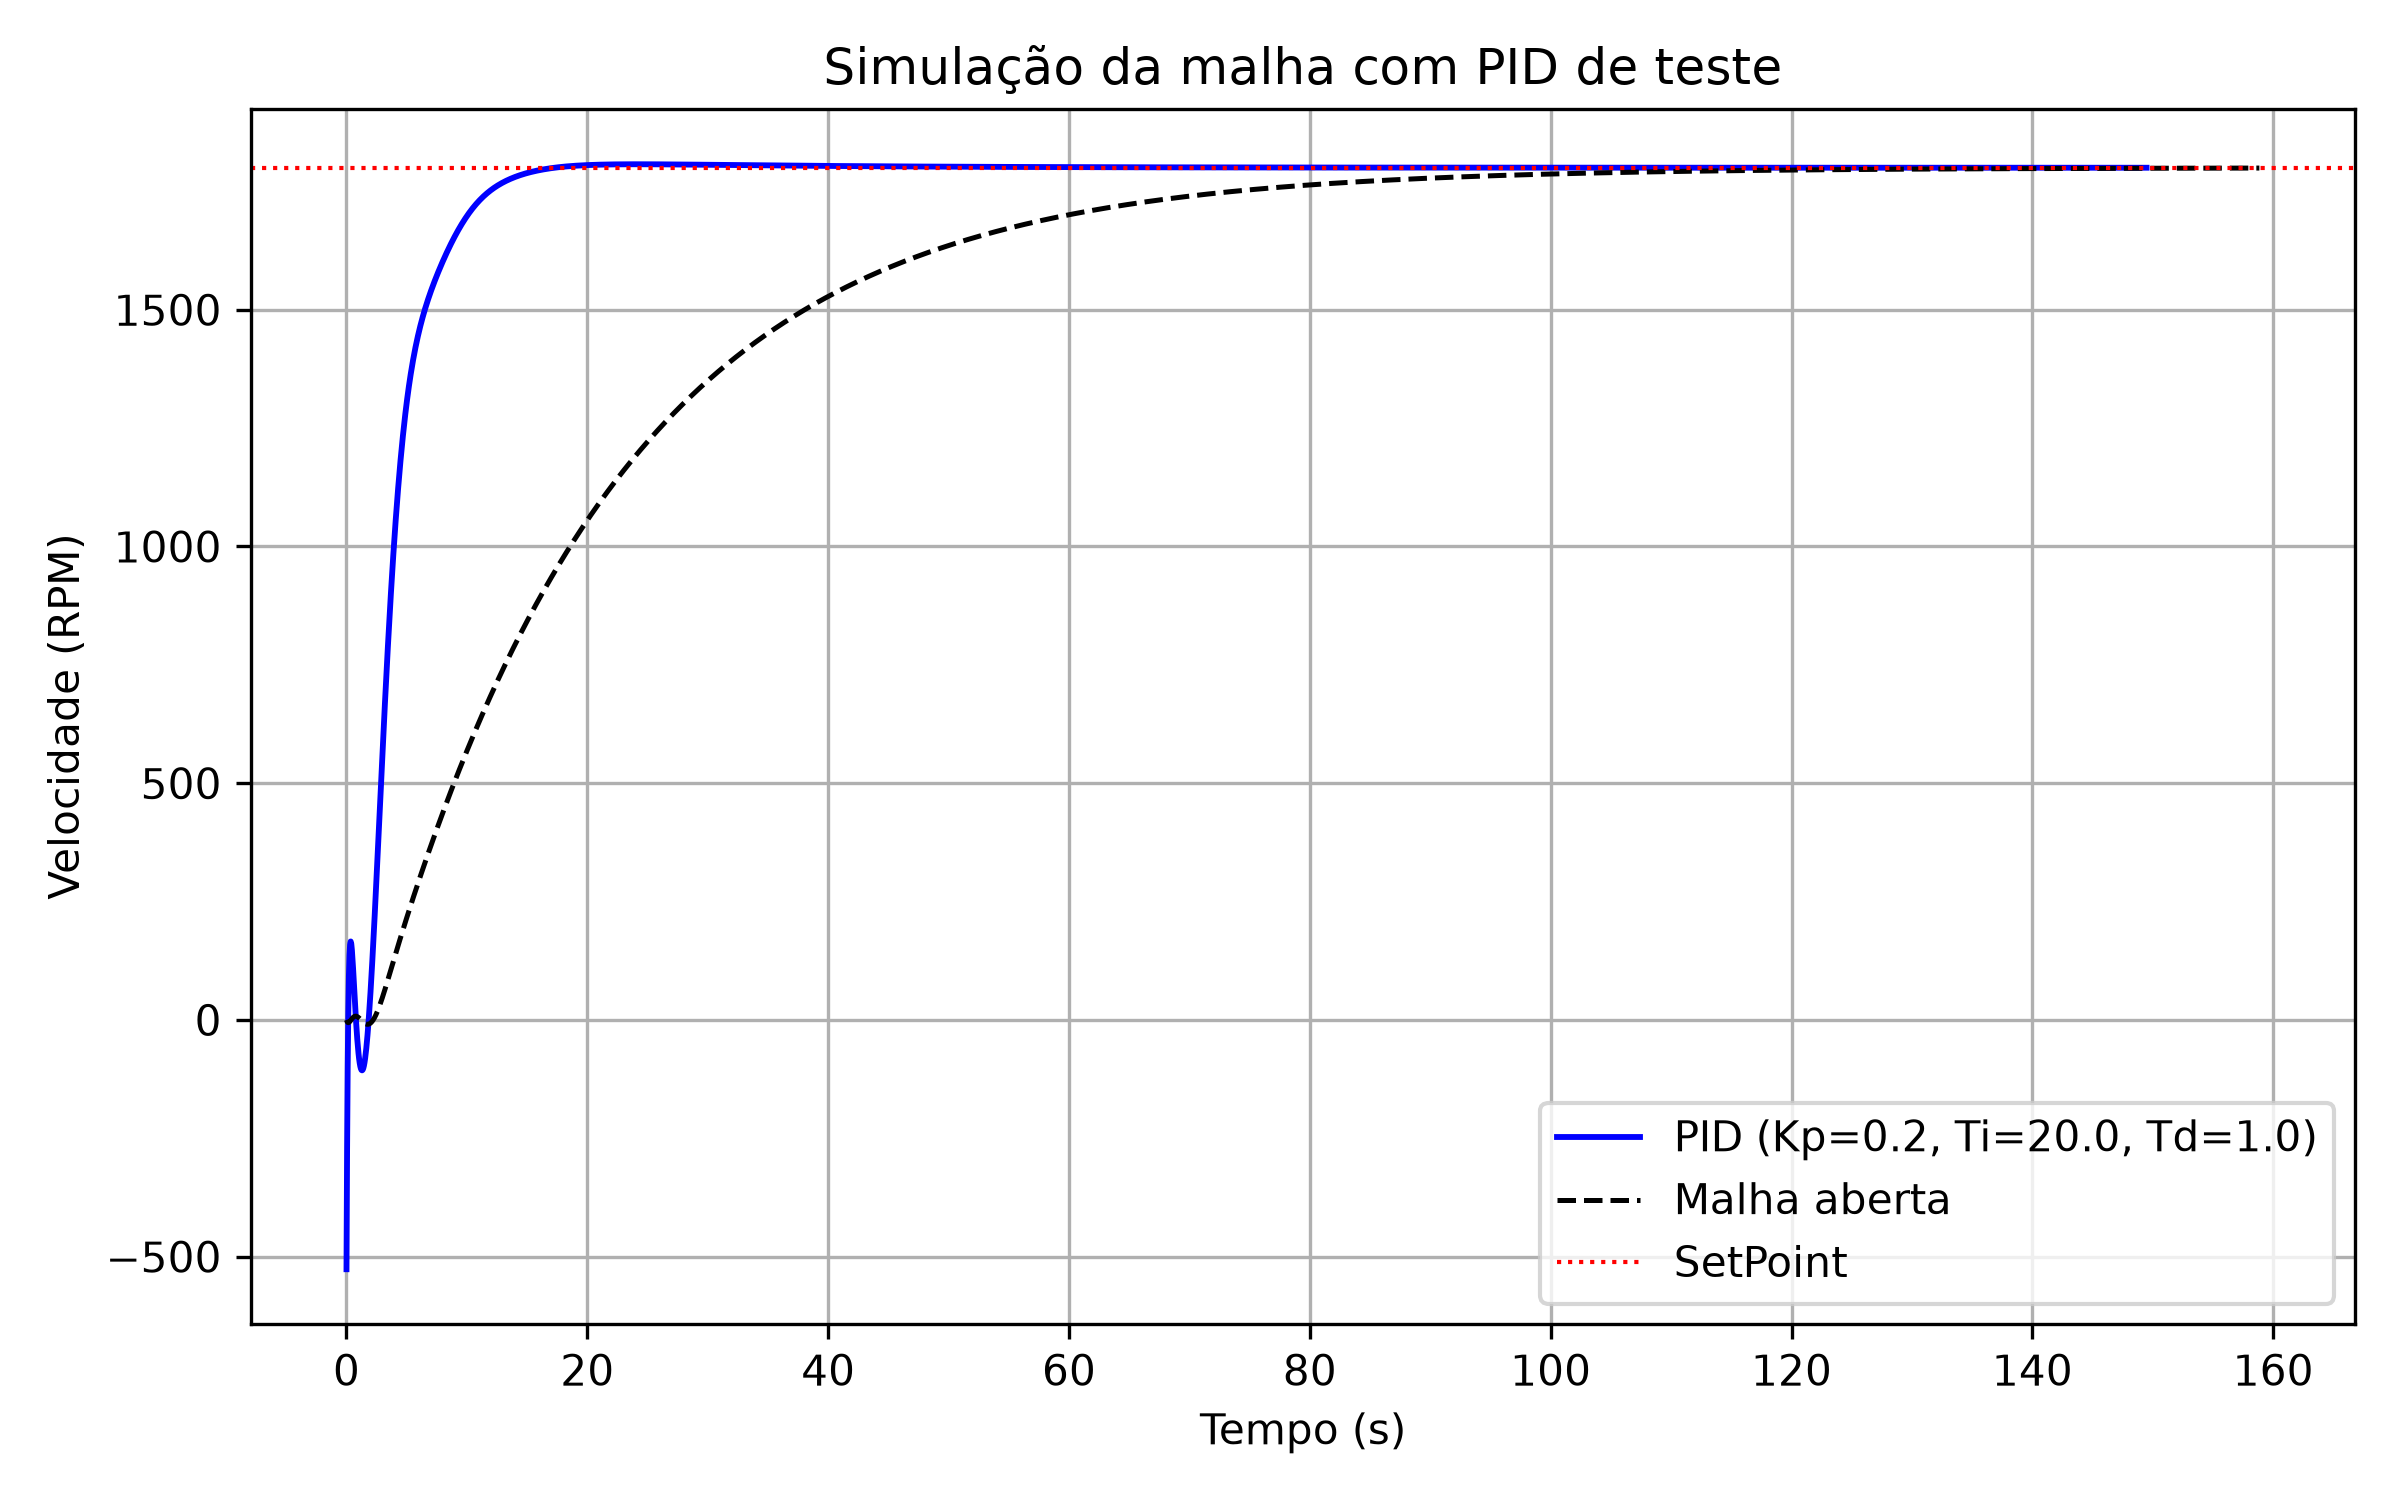
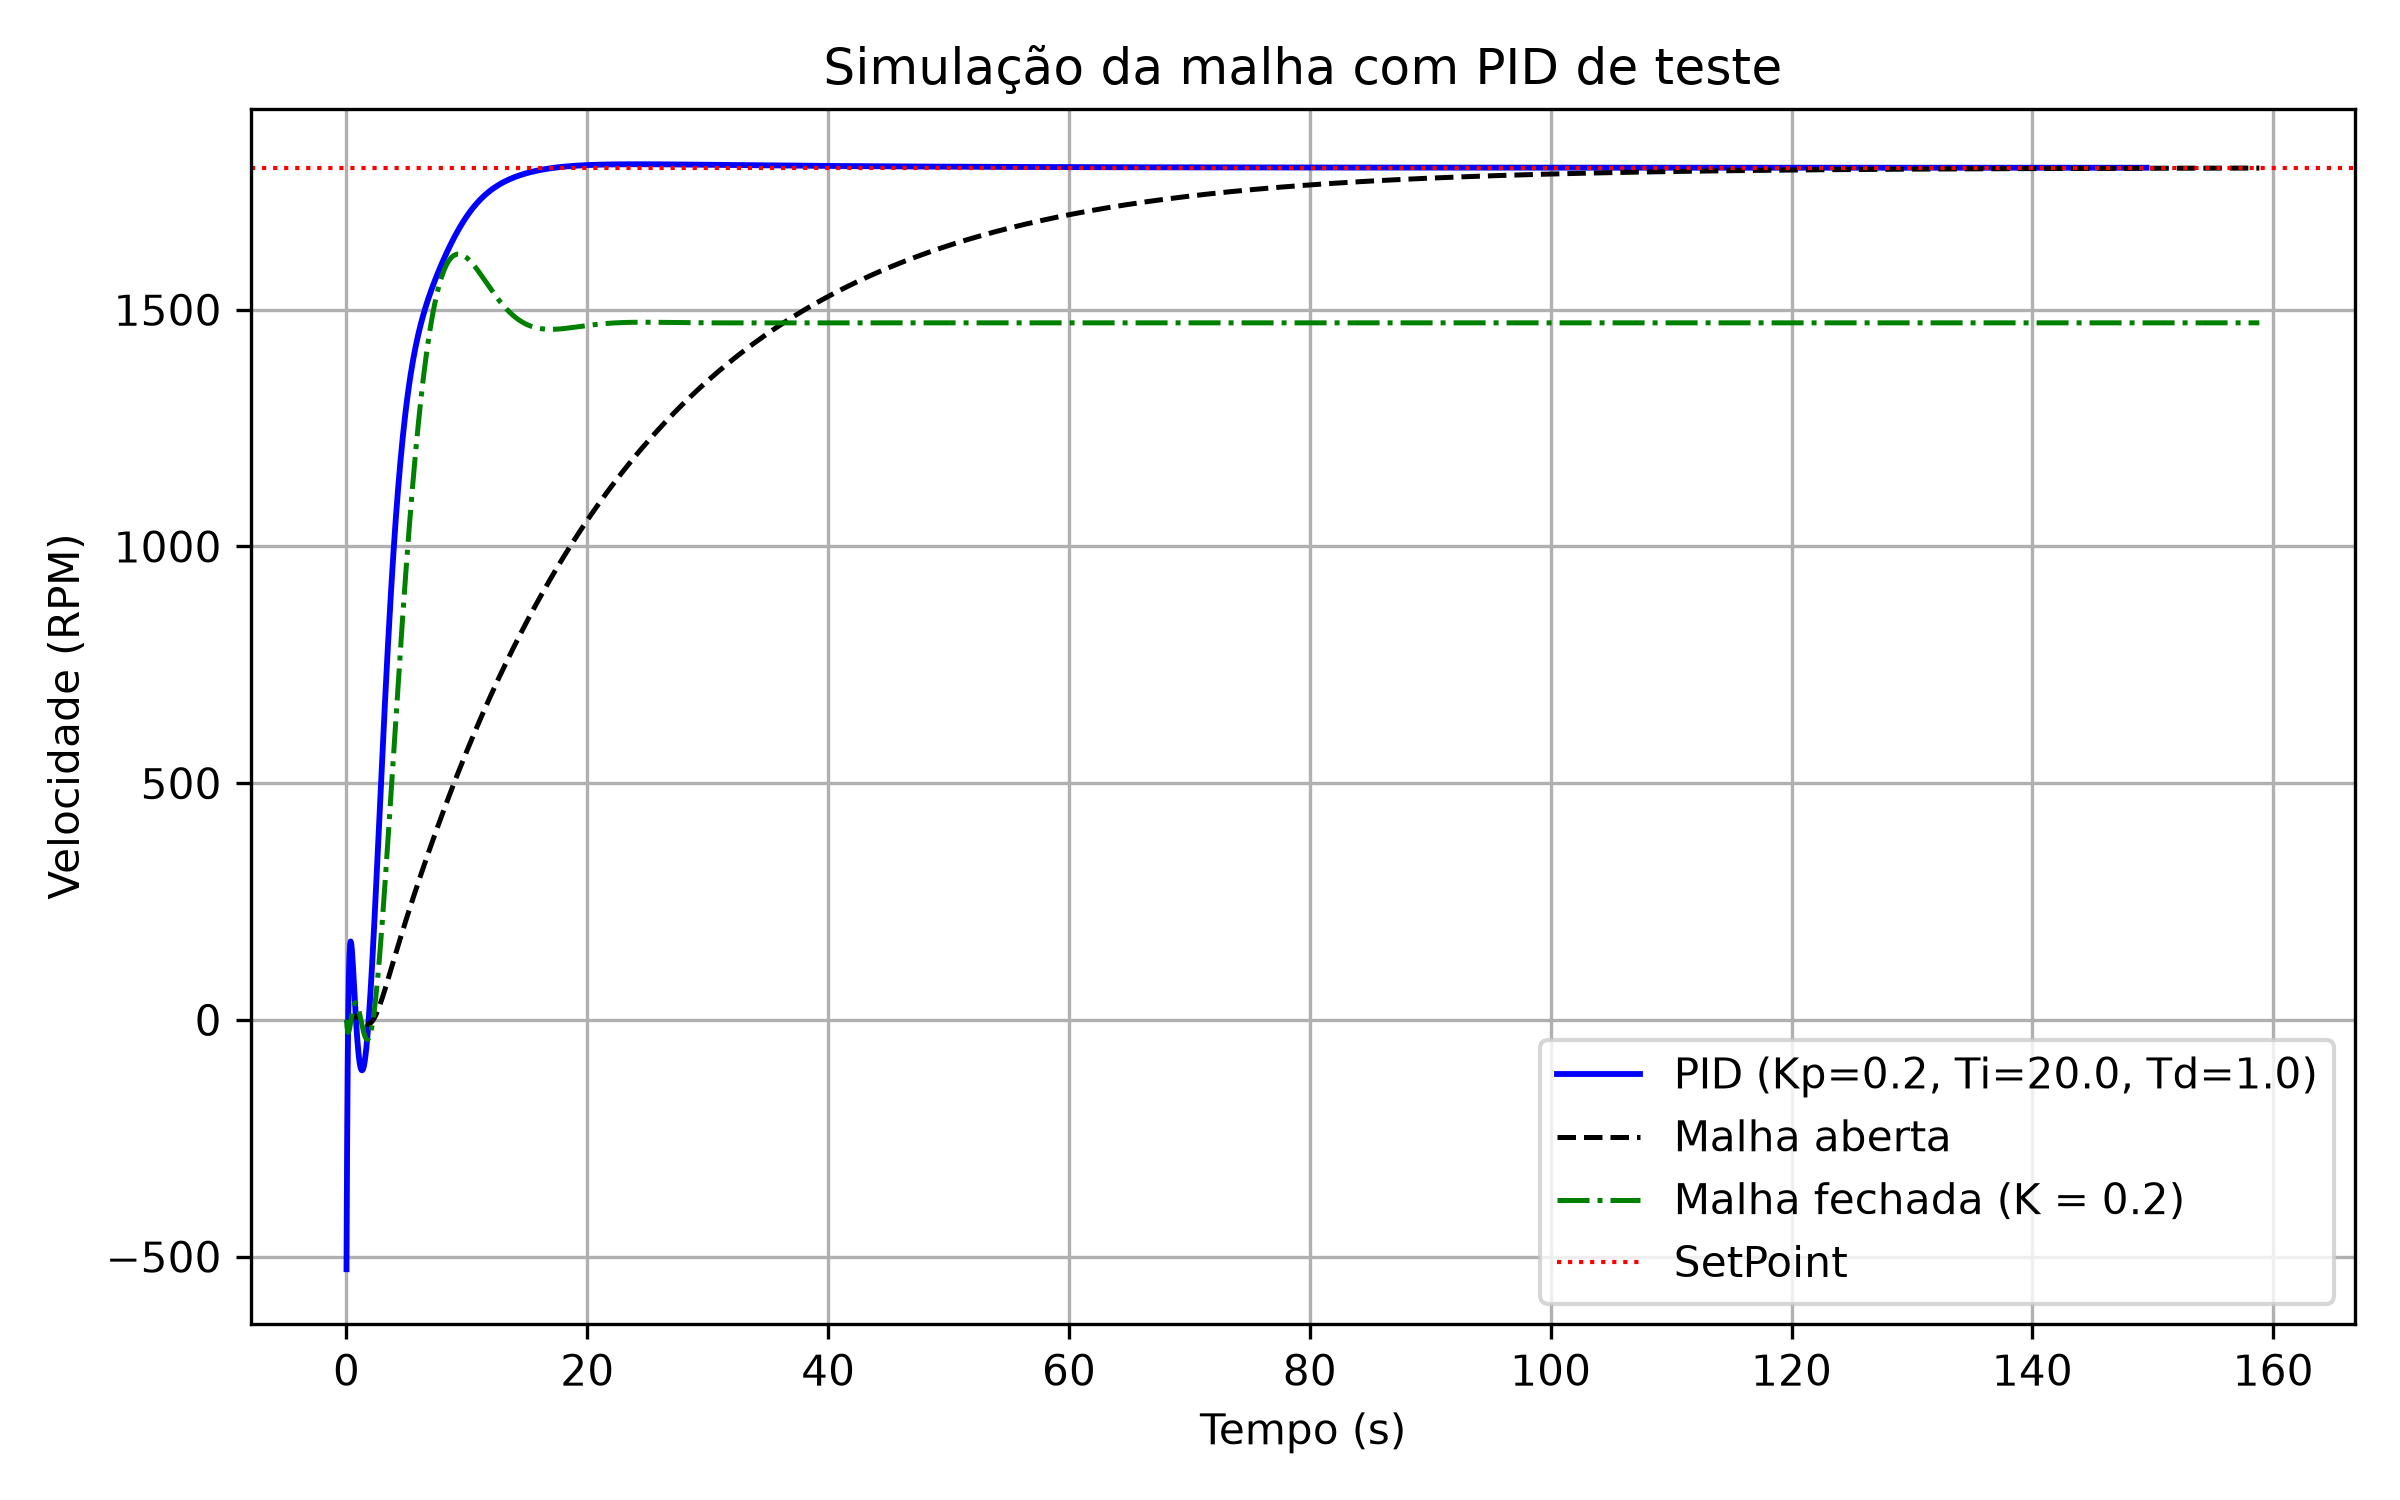
refactor: Adição do ganho K e documentação do módulo
- simular_sem_controlador recebe o ganho K (padrão 0,2, a baixo de Kcritico)
- adiciona ganho critico(), calculando com atraso extato (Kcr)
- README: seção explicando como usar as funções para os itens seguintes

Changed region(s): [[0.625, 0.6747, 0.9688, 0.828], [0.875, 0.7973, 0.9062, 0.828], [0.125, 0.6747, 0.1562, 0.7053]]

diff --git a/controle/malha_fechada.py b/controle/malha_fechada.py
@@ -3,11 +3,13 @@ import math
 from pathlib import Path
 import numpy as np
 import control as ct
+from scipy.optimize import brentq
 
 RAIZ = Path(__file__).resolve().parents[1]
 CAMINHO_MODELO = RAIZ / "identificação" / "modelo_identificado.json"
 SETPOINT_PADRAO = 1800.0  # RPM, valor final do ensaio
 ORDEM_PADE = 3
+GANHO_PADRAO = 0.2  # K da malha fechada do item 4, ~1/3 do ganho crítico
 N_PONTOS = 3000
 
 
@@ -25,24 +27,25 @@ def planta_fopdt(k, tau, theta, ordem_pade=ORDEM_PADE):
     return ct.series(ct.tf(k, [tau, 1]), ct.tf(*ct.pade(theta, ordem_pade)))
 
 
-def controlador_pid(kp, ti, td, n_filtro=None):
-    """PID(s) = Kp·(1 + 1/(Ti·s) + Td·s); ti=None ou inf remove a ação integral.
-
-    n_filtro=N troca a derivada ideal Td·s por Td·s/(1 + Td·s/N), limitando o ganho
-    derivativo em alta frequência. None (padrão) mantém a forma ideal.
-    """
+def controlador_pid(kp, ti, td):
     if ti is not None and ti <= 0:
         raise ValueError("Ti deve ser positivo (use None para remover a ação integral).")
     if td < 0:
         raise ValueError("Td não pode ser negativo.")
-    if n_filtro is not None and n_filtro <= 0:
-        raise ValueError("n_filtro deve ser positivo (use None para a derivada ideal).")
-    tf_ = td / n_filtro if n_filtro else 0.0  # constante de tempo do filtro da derivada
     if ti is None or math.isinf(ti):
-        num, den = [kp * (td + tf_), kp], [tf_, 1]
-    else:
-        num, den = [kp * ti * (td + tf_), kp * (ti + tf_), kp], [ti * tf_, ti, 0]
-    return ct.tf(num, np.trim_zeros(den, "f"))
+        return ct.tf([kp * td, kp], [1])
+    return ct.tf([kp * td, kp, kp / ti], [1, 0])
+
+
+def ganho_critico(modelo=None):
+    # Calculado com o atraso exato: fase de G(jw) = -180° em atan(tau·w) + theta·w = pi
+    modelo = modelo or carregar_modelo()
+    k, tau, theta = modelo["k"], modelo["tau"], modelo["theta"]
+    if theta == 0:
+        return math.inf
+    w180 = brentq(lambda w: math.atan(tau * w) + theta * w - math.pi,
+                  math.pi / (2 * theta), math.pi / theta)
+    return math.sqrt(1 + (tau * w180) ** 2) / k
 
 
 def verificar_estabilidade(sistema):
@@ -68,7 +71,7 @@ def _cruzamento(t, y, nivel):
 
 
 def calcular_metricas(t, y, setpoint, valor_final):
-    """Tempo de subida (10–90%), acomodação (2%), overshoot (%) e erro em regime."""
+ 
     tr = _cruzamento(t, y, 0.9 * valor_final) - _cruzamento(t, y, 0.1 * valor_final)
 
     fora = np.flatnonzero(np.abs(y - valor_final) > 0.02 * abs(valor_final))
@@ -112,16 +115,10 @@ def _metricas_instavel(polos, aviso):
 
 
 def simular_malha_fechada(kp, ti, td, setpoint=SETPOINT_PADRAO, modelo=None,
-                          ordem_pade=ORDEM_PADE, t_final=None, n_filtro=None):
-    """Resposta da malha PID + FOPDT com realimentação unitária a um degrau de SetPoint.
-
-    Retorna (t, y, metricas). Se a malha for instável, não simula: t e y vêm vazios,
-    as métricas vêm como nan e metricas["aviso"] explica o motivo.
-    n_filtro: ver controlador_pid (None = derivada ideal da eq. 8 do enunciado).
-    """
+                          ordem_pade=ORDEM_PADE, t_final=None):
     modelo = modelo or carregar_modelo()
     planta = planta_fopdt(modelo["k"], modelo["tau"], modelo["theta"], ordem_pade)
-    sistema = ct.feedback(ct.series(controlador_pid(kp, ti, td, n_filtro), planta), 1)
+    sistema = ct.feedback(ct.series(controlador_pid(kp, ti, td), planta), 1)
 
     estavel, polos = verificar_estabilidade(sistema)
     if not estavel:
@@ -135,19 +132,15 @@ def simular_malha_fechada(kp, ti, td, setpoint=SETPOINT_PADRAO, modelo=None,
     return t, y, {"estavel": True, "polos": polos, **metricas}
 
 
-def simular_sem_controlador(setpoint=SETPOINT_PADRAO, modelo=None,
+def simular_sem_controlador(setpoint=SETPOINT_PADRAO, ganho=GANHO_PADRAO, modelo=None,
                             ordem_pade=ORDEM_PADE, t_final=None):
-    """Malha aberta e malha fechada sem controlador, no mesmo vetor de tempo.
-
-    Malha aberta: G(s) com degrau de entrada Δu = SP/k, que leva a saída ao SetPoint
-    (mesma situação do ensaio). Malha fechada: G/(1+G) com degrau de SetPoint.
-    Retorna {"aberta": (t, y, metricas), "fechada": (t, y, metricas)}; uma malha
-    instável vem com t e y vazios e o aviso, sem impedir a simulação da outra.
-    """
+    # Malha aberta: G(s) com degrau Δu = SP/k. Malha fechada: K·G/(1 + K·G) com degrau SP.
+    if ganho <= 0:
+        raise ValueError("O ganho K deve ser positivo.")
     modelo = modelo or carregar_modelo()
     planta = planta_fopdt(modelo["k"], modelo["tau"], modelo["theta"], ordem_pade)
     malhas = {"aberta": (planta, setpoint / modelo["k"]),
-              "fechada": (ct.feedback(planta, 1), setpoint)}
+              "fechada": (ct.feedback(ganho * planta, 1), setpoint)}
 
     estabilidade = {nome: verificar_estabilidade(sis) for nome, (sis, _) in malhas.items()}
     polos_estaveis = [p for estavel, p in estabilidade.values() if estavel]
@@ -158,7 +151,8 @@ def simular_sem_controlador(setpoint=SETPOINT_PADRAO, modelo=None,
         estavel, polos = estabilidade[nome]
         if not estavel:
             instaveis = ", ".join(f"{p:.3g}" for p in polos[np.real(polos) >= 0])
-            aviso = f"Malha {nome} sem controlador instável: polos com parte real >= 0: {instaveis}."
+            aviso = (f"Malha {nome} instável com K={ganho} (ganho crítico = "
+                     f"{ganho_critico(modelo):.3f}): polos com parte real >= 0: {instaveis}.")
             resultado[nome] = (np.array([]), np.array([]), _metricas_instavel(polos, aviso))
             continue
         y, metricas = _simular(sistema, amplitude, setpoint, t)
@@ -186,13 +180,15 @@ if __name__ == "__main__":
     modelo = carregar_modelo()
     print(f"Modelo: k={modelo['k']:.4f}  tau={modelo['tau']:.4f}  theta={modelo['theta']:.4f}")
 
+    # Valores só para testar o módulo; os definitivos vêm da sintonia ZN e Cohen-Coon (item 5)
     kp, ti, td = 0.2, 20.0, 1.0
     t, y, m = simular_malha_fechada(kp, ti, td, modelo=modelo)
     imprimir(f"PID de teste (Kp={kp}, Ti={ti}, Td={td})", m)
 
-    sem = simular_sem_controlador(modelo=modelo)
+    print(f"\nGanho crítico: Kcr = {ganho_critico(modelo):.4f}")
+    sem = simular_sem_controlador(ganho=GANHO_PADRAO, modelo=modelo)
     imprimir("Malha aberta (Δu = SP/k)", sem["aberta"][2])
-    imprimir("Malha fechada sem controlador", sem["fechada"][2])
+    imprimir(f"Malha fechada com ganho K = {GANHO_PADRAO}", sem["fechada"][2])
 
     _, _, m_inst = simular_malha_fechada(2.0, 5.0, 1.0, modelo=modelo)
     imprimir("Caso instável (Kp=2, Ti=5, Td=1)", m_inst)
@@ -201,7 +197,7 @@ if __name__ == "__main__":
     plt.figure(figsize=(8, 5))
     plt.plot(t, y, "b", lw=1.4, label=f"PID (Kp={kp}, Ti={ti}, Td={td})")
     for nome, estilo, rotulo in (("aberta", "k--", "Malha aberta"),
-                                 ("fechada", "g-.", "Malha fechada sem controlador")):
+                                 ("fechada", "g-.", f"Malha fechada (K = {GANHO_PADRAO})")):
         t_s, y_s, m_s = sem[nome]
         if m_s["estavel"]:
             plt.plot(t_s, y_s, estilo, lw=1.2, label=rotulo)

diff --git a/README.md b/README.md
@@ -38,6 +38,97 @@ O atraso $\theta$ não aparece nas equações ideais do motor. Em um sistema rea
 
 
 
+## Simulação da malha (`controle/malha_fechada.py`)
+
+Este módulo é o núcleo de simulação do projeto. Ele é usado no modo Manual da interface, na comparação entre malha aberta e fechada (item 4) e nas sintonias ZN e Cohen-Coon (item 5).
+
+O módulo trabalha assim:
+- **Planta:** modelo FOPDT lido de `identificação/modelo_identificado.json`, com o atraso aproximado por Padé de ordem 3.
+- **Controlador:** PID na forma ideal da eq. (8) do enunciado, $PID(s) = K_p\left(1 + \frac{1}{T_i s} + T_d s\right)$, com realimentação unitária.
+- **Saída:** as funções **não plotam nada**. Elas retornam o tempo, a resposta e um dicionário de métricas, para cada um montar o próprio gráfico ou a interface.
+
+### Como usar
+
+Instale as dependências e rode os scripts **a partir da pasta raiz** do projeto:
+
+```bash
+pip install -r requirements.txt
+python controle/malha_fechada.py   # exemplo: imprime as métricas e salva figuras/simulacao_pid_teste.png
+```
+
+Em outro script, importe as funções assim:
+
+```python
+from controle.malha_fechada import simular_malha_fechada, simular_sem_controlador, ganho_critico
+```
+
+### Funções
+
+| Função | O que faz | Retorno |
+|---|---|---|
+| `simular_malha_fechada(kp, ti, td, setpoint=1800)` | Malha fechada com PID e degrau de SetPoint | `(t, y, metricas)` |
+| `simular_sem_controlador(setpoint=1800, ganho=0.2)` | Malha aberta (degrau Δu = SP/k) e malha fechada só com ganho K, no mesmo vetor de tempo | `{"aberta": (t, y, metricas), "fechada": (t, y, metricas)}` |
+| `ganho_critico()` | Ganho crítico Kcr da planta, calculado com o atraso exato | `float` (≈ 0,59) |
+| `carregar_modelo(ajustado=False)` | Lê k, τ e θ do JSON; `ajustado=True` usa o modelo do ajuste fino | `{"k", "tau", "theta"}` |
+
+Parâmetros opcionais que todas as funções de simulação aceitam:
+- **`modelo=`**: dicionário de `carregar_modelo()`. Se não for passado, usa o modelo de Smith.
+- **`ordem_pade=3`**: ordem da aproximação de Padé.
+- **`t_final=`**: duração da simulação. Se não for passado, é escolhida automaticamente.
+
+### Métricas retornadas
+
+| Chave | Significado |
+|---|---|
+| `estavel` | `True` se todos os polos da malha fechada têm parte real negativa |
+| `aviso` | `None`, ou um texto explicando o problema (malha instável, resposta que não acomodou) |
+| `valor_final` | Valor final em RPM, pelo Teorema do Valor Final |
+| `tempo_subida` | Tempo de 10 % a 90 % do valor final (s) |
+| `tempo_acomodacao` | Tempo para entrar e ficar na faixa de 2 % do valor final (s) |
+| `overshoot` | Sobressinal em % do valor final |
+| `pico`, `tempo_pico` | Valor máximo da resposta (RPM) e o instante em que ocorre (s) |
+| `erro_regime`, `erro_regime_pct` | SetPoint − valor final, em RPM e em % |
+| `polos` | Polos da malha |
+
+### Exemplo: item 4 (malha aberta × malha fechada)
+
+```python
+import matplotlib.pyplot as plt
+from controle.malha_fechada import simular_sem_controlador, ganho_critico
+
+print(f"Kcr = {ganho_critico():.3f}")        # o K escolhido precisa ser menor que isso
+res = simular_sem_controlador(ganho=0.2)
+
+for nome in ("aberta", "fechada"):
+    t, y, m = res[nome]
+    if m["estavel"]:
+        plt.plot(t, y, label=f"Malha {nome}")
+        print(nome, m["tempo_subida"], m["tempo_acomodacao"], m["erro_regime"])
+    else:
+        print(m["aviso"])
+```
+
+A malha fechada leva um ganho **K** no caminho direto. Com K = 1, ela é instável, porque o ganho crítico da planta é ≈ 0,59. Com K = 0,2, ela é bem mais rápida que a malha aberta (tempo de subida de 3,5 s contra 43,6 s e acomodação de 13 s contra 80 s), mas para em ≈ 1472 RPM: sobra um erro em regime de ≈ 18 %, que só a ação integral do PID elimina.
+
+### Exemplo: item 5 (PID sintonizado)
+
+```python
+from controle.malha_fechada import simular_malha_fechada
+
+kp, ti, td = ...   # valores calculados pela sintonia (ZN ou Cohen-Coon)
+t, y, m = simular_malha_fechada(kp, ti, td, setpoint=1800)
+
+if m["estavel"]:
+    print(m["tempo_subida"], m["tempo_acomodacao"], m["overshoot"])
+else:
+    print(m["aviso"])   # a interface pode mostrar esse texto direto
+```
+
+### Observações
+
+- **Malha instável:** a simulação não é feita. `t` e `y` voltam vazios, as métricas voltam como `nan` e `metricas["aviso"]` explica o motivo.
+- **Pico negativo no início:** com ação derivativa ($T_d > 0$), a resposta começa com um pico negativo em t = 0. Isso é efeito da combinação da derivada ideal com a aproximação de Padé, não do motor. No motor real, a saída ficaria parada durante o atraso θ.
+
 ## Referências
 
 FUENTES, Rodrigo Cardozo. **Apostila de Automação Industrial**: capítulo 5 – Controle de Motores de Corrente Contínua. Santa Maria: Colégio Técnico Industrial de Santa Maria, Universidade Federal de Santa Maria, 2005.
